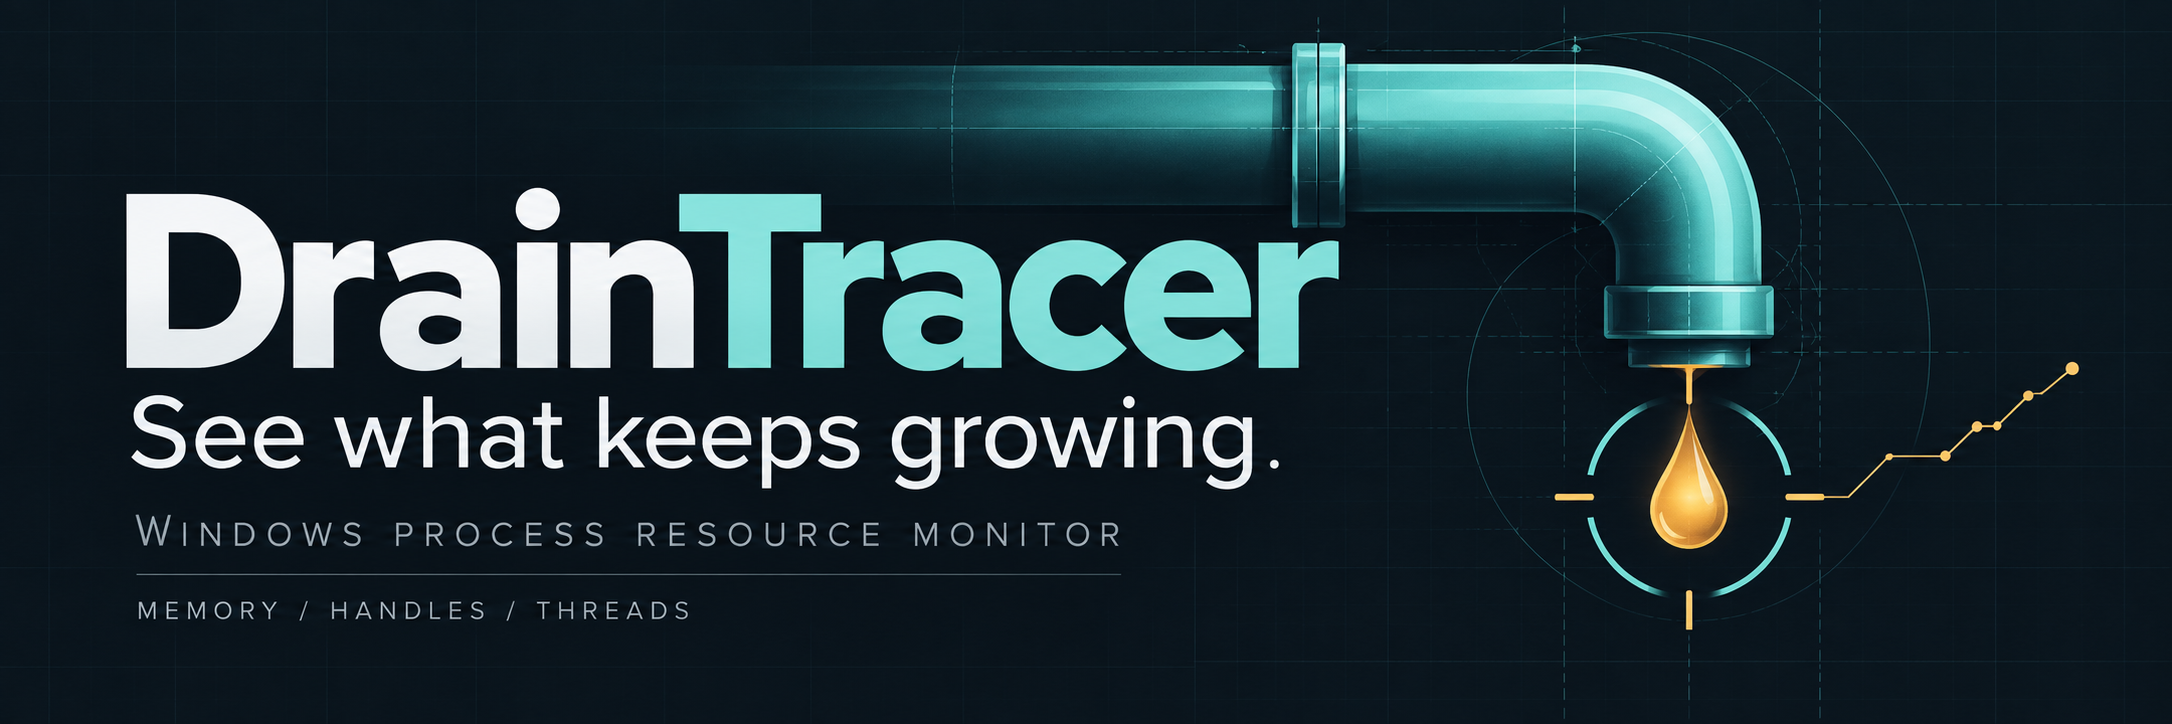
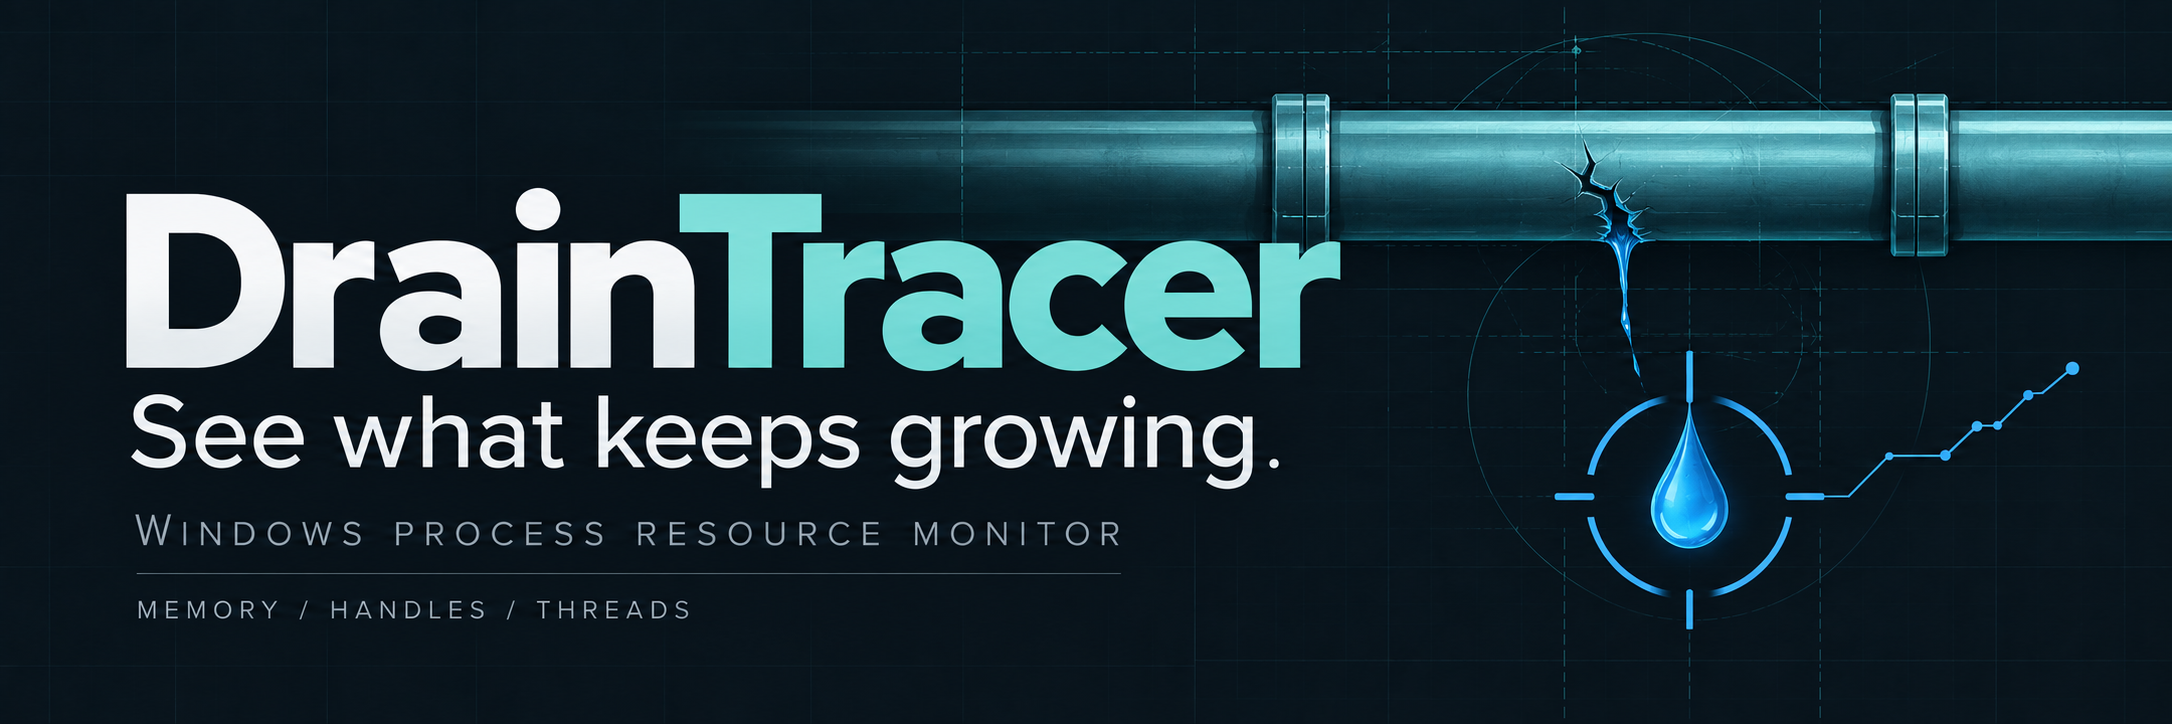
Update the masthead to a cracked pipe and blue water

diff --git a/src/dashboard.py b/src/dashboard.py
@@ -46,7 +46,7 @@ SORT_MODES = ("tree", "memory", "handles", "cpu")
 class DashboardApp(MonitorSession):
     """Render a monitor session live in the terminal and handle its controls."""
 
-    VERSION = "v2.4"
+    VERSION = "v2.5"
     DELTA_WINDOW_SECONDS = 10.0
     FRAME_SECONDS = 0.1
     # Redraw at least this often so the clock and countdowns keep moving.

diff --git a/README.md b/README.md
@@ -1,11 +1,11 @@
 <p align="center">
-  <img src="docs/assets/hero.png" alt="DrainTracer. See what keeps growing. A leaking teal pipe and an amber droplet inside a tracing reticle." width="100%">
+  <img src="docs/assets/hero.png" alt="DrainTracer. See what keeps growing. Blue liquid leaks from a crack in a straight horizontal pipe into a tracing reticle." width="100%">
 </p>
 
 <p align="center">
   <a href="docs/usage.md"><img src="https://img.shields.io/badge/platform-Windows_10%20%2F%2011-101820?style=flat-square&labelColor=196F69" alt="Windows 10 and 11"></a>
   <a href="requirements.txt"><img src="https://img.shields.io/badge/python-3.10%2B-101820?style=flat-square&labelColor=196F69" alt="Python 3.10 or newer"></a>
-  <a href="LICENSE"><img src="https://img.shields.io/badge/license-MIT-101820?style=flat-square&labelColor=936011" alt="MIT license"></a>
+  <a href="LICENSE"><img src="https://img.shields.io/badge/license-MIT-101820?style=flat-square&labelColor=0069B8" alt="MIT license"></a>
 </p>
 
 <h1 align="center">DrainTracer</h1>

diff --git a/docs/branding.md b/docs/branding.md
@@ -79,8 +79,9 @@ and Python 3.10+.
 
 ## Sources, exports, and license
 
-The illustrated masthead was created with the built-in image generation tool;
-the exact generation brief is saved in [hero-prompt.txt](assets/brand/hero-prompt.txt).
+The illustrated masthead was created and revised with the built-in image
+generation tool; the current edit brief is saved in
+[hero-prompt.txt](assets/brand/hero-prompt.txt).
 The compact marks, wordmarks, and social card are editable SVG artwork. Their
 PNG exports were rendered from those SVGs in Chromium with transparent
 backgrounds preserved.

diff --git a/CHANGELOG.md b/CHANGELOG.md
@@ -5,6 +5,12 @@ feature milestones remain in [future-plan.md](future-plan.md), and the complete
 commit history records earlier changes. Versions follow the repository rule:
 each focused change advances the runtime version by exactly `0.1`.
 
+## v2.5 — 2026-10-21
+
+- Revised the README masthead to show blue water escaping from a crack in a
+  straight pipe, matching the compact identity.
+- Updated the banner edit brief, accessible description, and license badge color.
+
 ## v2.4 — 2026-10-21
 
 - Revised every compact logo, avatar, wordmark, and social card to show a
